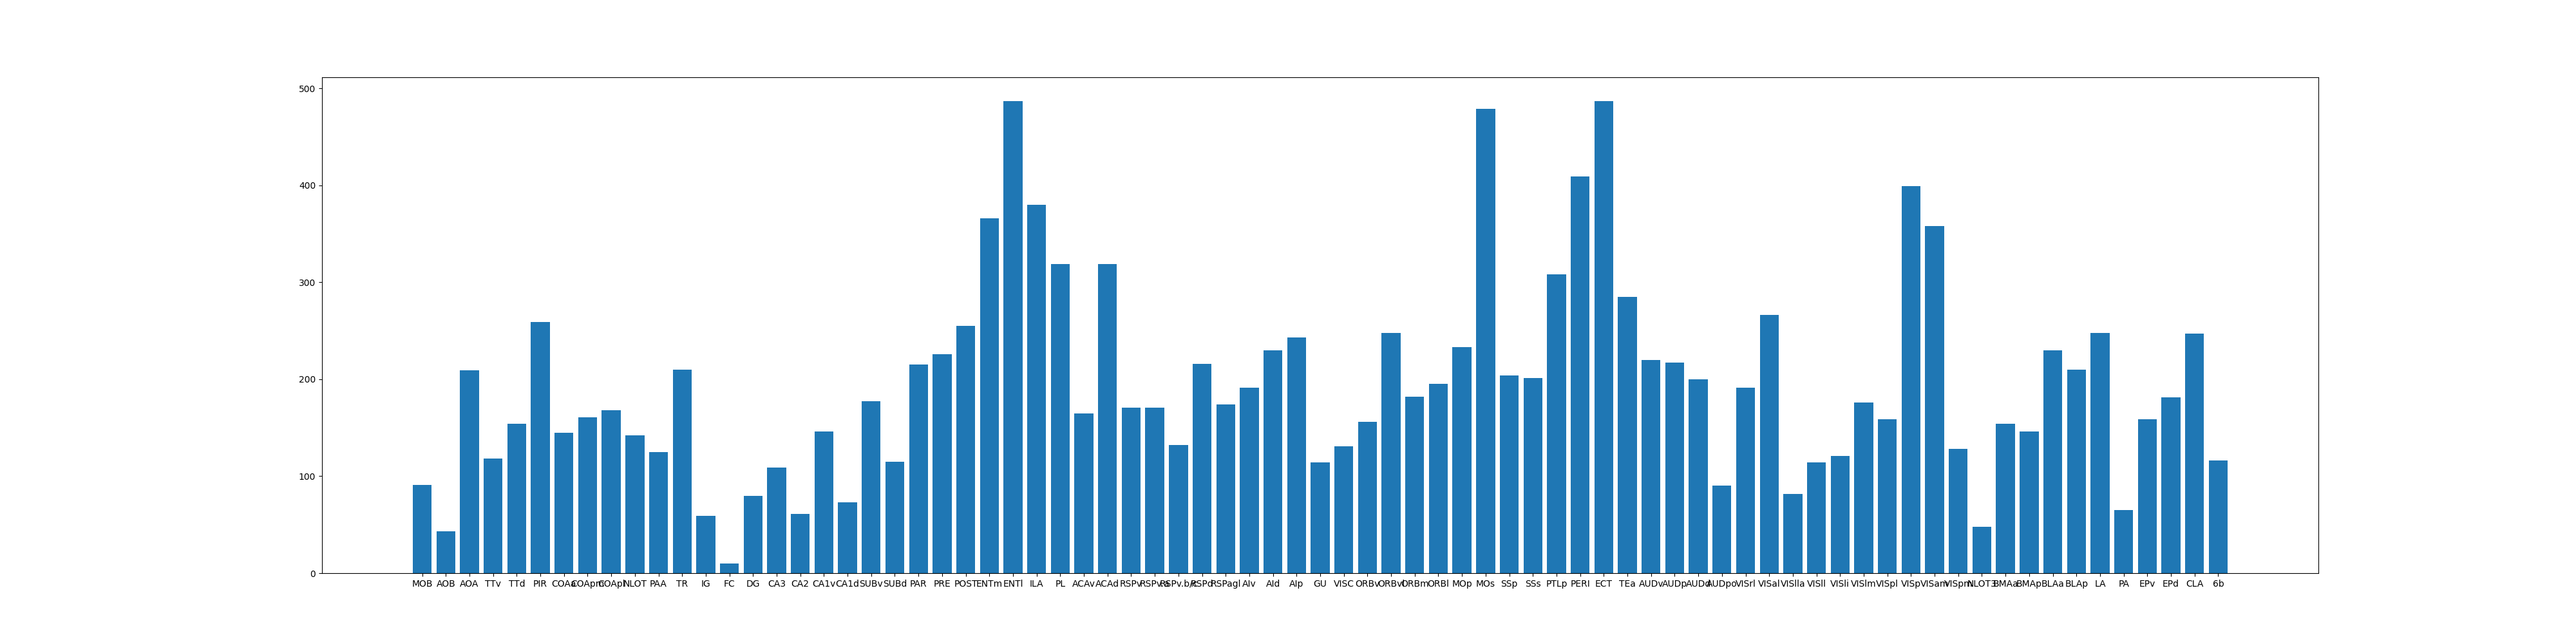
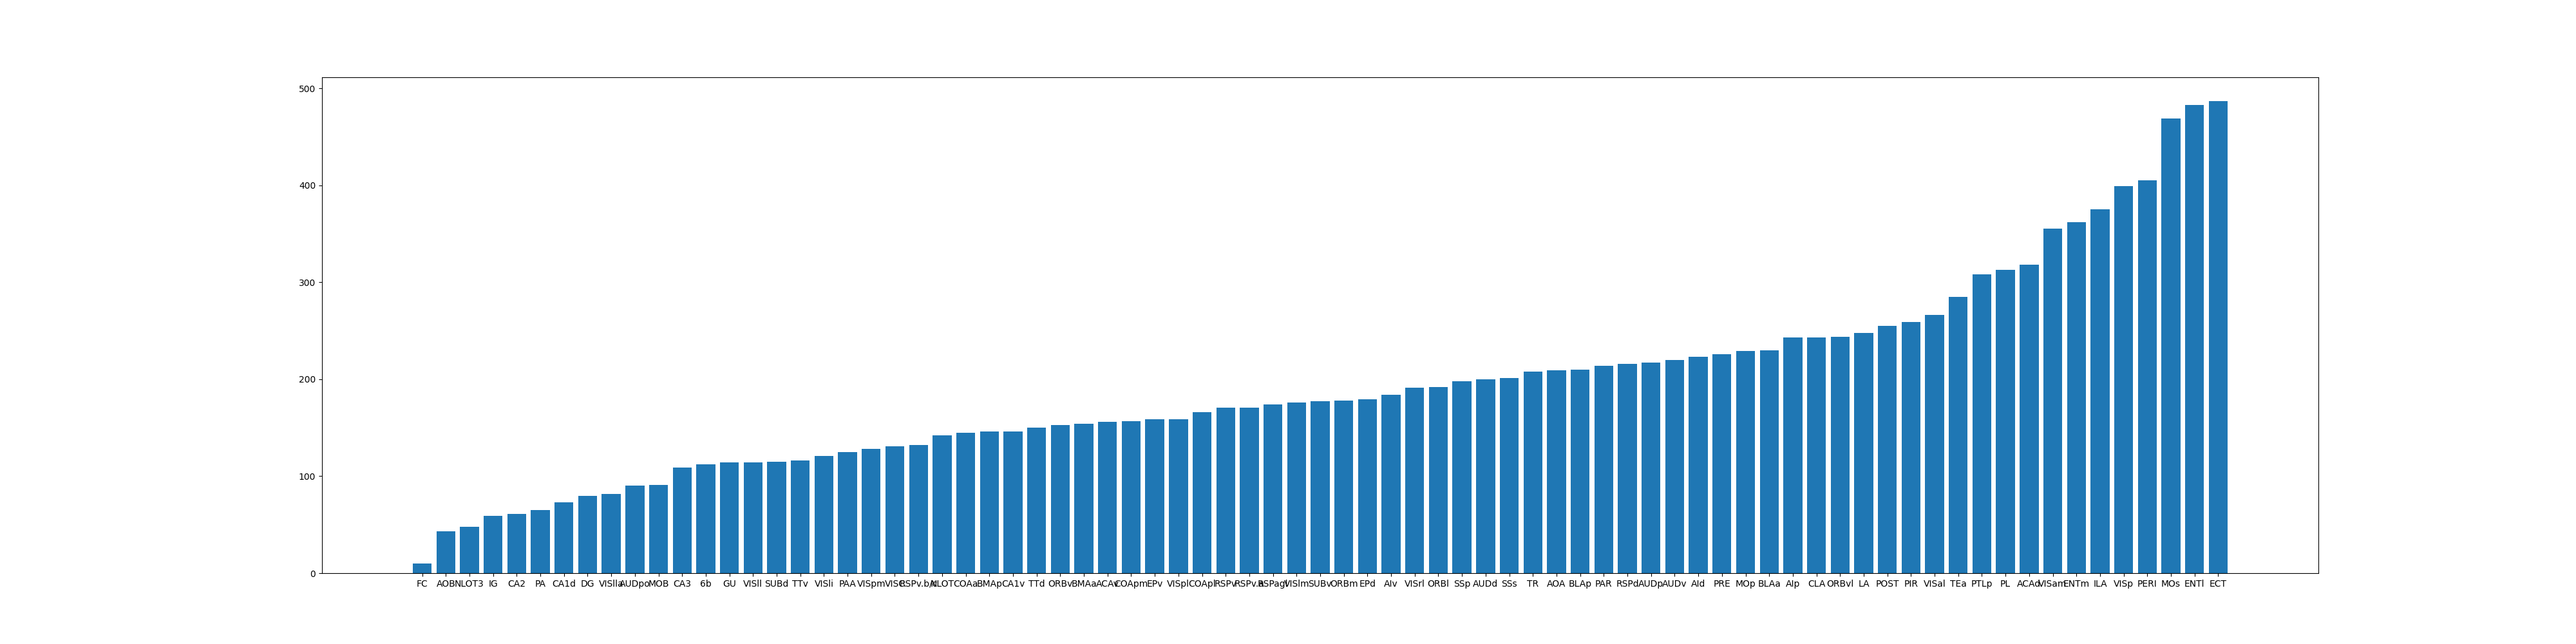
graphs in graph.py

Changed region(s): [[0.1562, 0.155, 0.875, 0.868], [0.1562, 0.899, 0.875, 0.93]]

diff --git a/graph.py b/graph.py
@@ -21,7 +21,6 @@ with open('Dataset2.csv', encoding='utf-8', mode = 'r') as csvFile:
 				count += 1
 				if sub['start'] == "" or sub['target'] == '':
 					continue
-				# sub["data_type"] = str(line[4]) if len(line[4]) != 0 else ""
 				sub["binned_strength"] = int(line[5]) if len(line[5]) != 0 else ""
 				if sub["binned_strength"] == "":
 					break
@@ -72,14 +71,13 @@ f.close()
 ### tuple[3] is the weight (has already been casted to int)
 
 ### Jack's TODO ###
-G = nx.MultiDiGraph()
-G.add_edges_from(data)
-print("number of nodes: " + str(len(G.nodes())))
-# print(G.nodes())
-print("number of edges: " + str(G.number_of_edges()))
-print("out degree: " + str(G.out_degree('FC')))
-print("in degree: " + str(G.in_degree('FC')))
-# print(G.edges())
+graph = nx.MultiDiGraph()
+for line in data:
+	graph.add_edge(line[0], line[1], weight=line[2])
+#print("number of nodes: " + str(len(G.nodes())))
+#print("number of edges: " + str(G.number_of_edges()))
+#print("out degree: " + str(G.out_degree('FC')))
+#print("in degree: " + str(G.in_degree('FC')))
 # Uncomment this to show a basic plot of the graph
 # nx.draw(graph)
 # plt.show()
@@ -87,30 +85,69 @@ print("in degree: " + str(G.in_degree('FC')))
 
 ####################### DEGREE GRAPH ########################
 ### Ashley's TODO ###
+# List of 77 nodes that are included
+nodesI = [ "ECT","VISp", "VISal", "TEa", "VISpm", "SSs", "VISam", "VISrl", "SSp", "AUDv", "6b", "MOp", "VISlm","AUDp","PTLp","AUDpo","VISpl","AUDd","VISli","VISll","VISlla","ENTl","ORBm","PERI","PIR","LA","AIp","PL","BLAp","ENTm","EPd","ILA","BLAa","COApm","AIv","CA1v","VISC","AId","AOA","TR","GU","EPv","PAA","NLOT","BMAp","SUBv","BMAa","CA3","COApl","COAa","NLOT3","CA1d","TTd","SUBd","PA","MOB","TTv","DG","CA2","IG","AOB","FC","MOs","RSPd","CLA","ACAv","ORBv","RSPv.a","ACAd","ORBvl","RSPv.b/c","PAR","POST","RSPagl","PRE","ORBl","RSPv","ECT","VISp","VISal","TEa","VISpm","SSs","VISam","VISrl","SSp","AUDv","6b","MOp","VISlm","AUDp","PTLp","AUDpo","VISpl","AUDd","VISli","VISll","VISlla","ENTl","ORBm","PERI","PIR","LA","AIp","PL","BLAp","ENTm","EPd","ILA","BLAa","COApm","AIv","CA1v","VISC","AId","AOA","TR","GU","EPv","PAA","NLOT","BMAp","SUBv","BMAa","CA3","COApl","COAa","NLOT3","CA1d","TTd","SUBd","PA","MOB","TTv","DG","CA2","IG","AOB","FC","MOs","CLA","RSPd","ACAv","ORBv","ACAd","RSPv.a","RSPv.b/c","POST","RSPagl","PAR","PRE","ORBl","ORBvl","RSPv"]
 
+in_degree = {}
+out_degree = {}
+for node, degree in graph.in_degree(graph.nodes()):
+	if node in nodesI:
+		in_degree[node] = degree
+
+for node, degree in graph.out_degree(graph.nodes()):
+	if node in nodesI:
+		out_degree[node] = degree
+
+sorted_in = {k: v for k, v in sorted(in_degree.items(), key=lambda item: item[1])}
+sorted_out = {k: v for k, v in sorted(out_degree.items(), key=lambda item: item[1])}
+
+plt.figure(figsize=(40,10))
+plt.bar(sorted_out.keys(), sorted_out.values())
+plt.savefig('out_degree.png')
+plt.xlabel('Nodes')
+plt.ylabel('degree')
+
+plt.figure(figsize=(40,10))
+plt.bar(sorted_in.keys(), sorted_in.values())
+plt.savefig('in_degree.png')
+plt.xlabel('Nodes')
+plt.ylabel('degree')
 
 
 ####################### STENGTH GRAPH #######################
 ### Manisha's TODO ###
 #Input Strength Graph
 
-in_degree = {}
-out_degree = {}
-in_strength = {}
-out_strength = {}
-for node, degree in G.in_degree(G.nodes()):
-	in_degree[node] = degree
+strengthIN = {}
+strengthOUT = {}
+for n in graph.nodes():
+	if n in nodesI:
+		sumIn = 0
+		sumOut = 0
+		for u,v,w in graph.in_edges(n, data=True):
+			if v in nodesI:
+				sumIn += w.get("weight")
+		#print(graph.out_edges(n, data=True))
+		for u,v,w in graph.out_edges(n, data=True):		
+			if v in nodesI:
+				sumOut += w.get("weight")
+		
+		strengthIN[n] = sumIn
+		strengthOUT[n] = sumOut
 
-for node, degree in G.out_degree(G.nodes()):
-	out_degree[node] = degree
+sorted_inD = {k: v for k, v in sorted(strengthIN.items(), key=lambda item: item[1])}
+sorted_outD = {k: v for k, v in sorted(strengthOUT.items(), key=lambda item: item[1])}
 
-for node, out, weight in G.out_edges(G.nodes()):
-	print(weight)
-	break
-	out_strength[node] = weight.get("weight")
-
+#Input Strength Graph
 plt.figure(figsize=(40,10))
-plt.bar(out_strength.keys(), out_strength.values())
-plt.savefig('out_strength.png')
+plt.bar(sorted_inD.keys(), sorted_inD.values())
+plt.savefig('inStrength.png')
 plt.xlabel('Nodes')
-plt.ylabel('out_strength')
+plt.ylabel('Strength')
+
+#Output Strength
+plt.figure(figsize=(40,10))
+plt.bar(sorted_outD.keys(), sorted_outD.values())
+plt.savefig('outStrength.png')
+plt.xlabel('Nodes')
+plt.ylabel('Strength')
